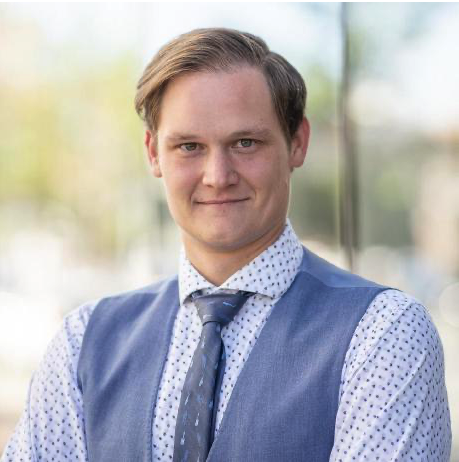
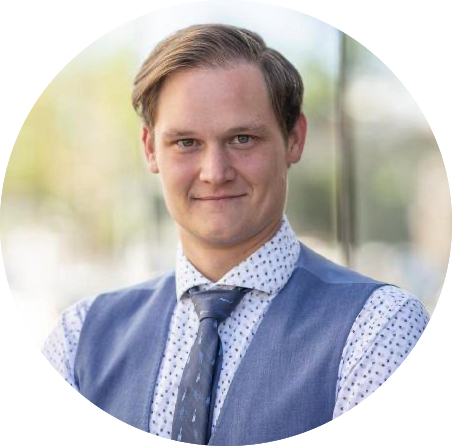
rounded images on team interns

diff --git a/app/about/page.js b/app/about/page.js
@@ -22,12 +22,12 @@ function AboutPage() {
     photo: '/gaspar.png'
   },
   {
-    name: 'Nate M',
+    name: 'Nathan M',
     position: 'Software Developer',
     photo: '/nathan.png'
   },
   {
-    name: 'Steve G',
+    name: 'Steven G',
     position: 'Software Developer',
     photo: '/steven.png'
   },
@@ -37,7 +37,7 @@ function AboutPage() {
     photo: '/jiena.png'
   },
   {
-    name: 'Alex S',
+    name: 'Alexander S',
     position: 'Software Developer',
     photo: '/alex.png'
 }]
@@ -63,6 +63,7 @@ function AboutPage() {
             Luxury cleaning, everyday prices
           </h2>
         </div>
+
         <div className="bg-blue-100 flex flex-col text-center mx-auto max-w-[1260px] items-center justify-center pt-20 pb-20">
           <h1 className="text-5xl sm:text-8x1 font-bold text-black tracking-tight mb-8">
             Who We Are
@@ -75,6 +76,28 @@ function AboutPage() {
             cleanliness
           </em>
         </div>
+
+        {/* place team info here */}
+        <div className="w-4/5">
+          <h2 className="text-5xl sm:text-8x1 font-bold text-white tracking-tight mb-20 pt-20 text-center">Meet the Minds Behind Our Mission</h2>
+          <div className="flex justify-around w-4/5 m-auto">
+            {team.map(function(member, index) {
+              if (index < 2) {
+                return <InfoCard key={index} member={member} image={member.photo} avatarW={200} avatarH={200} />}
+            })}
+          </div>
+          <h3 className="text-4xl sm:text-8x1 font-bold text-white tracking-tight mb-4 pt-20 text-center">Coding Champions</h3>
+          <p className="italic text-2xl text-center">&quot;The faces behind the code - our intern contributors&quot; </p>
+          <div className="flex p-10 justify-around m-auto">
+            {team.map(function(member, index) {
+              if (index > 1) {
+                return <InfoCard key={index} member={member} image={member.photo} avatarW={100} avatarH={100}/>}
+            })}
+          </div>
+        </div>
+        {/* place team info here */}
+
+
         <div className="flex flex-row text-center mx-auto max-w-[1260px] items-center justify-center pt-20">
           <div className="flex flex-col text-center max-w-[500px]">
             <h1 className="text-5xl sm:text-8x1 font-bold text-white tracking-tight mb-8 ">
@@ -101,23 +124,6 @@ function AboutPage() {
               className="absolute top-1/2 left-1/2 transform -translate-x-1/2 -translate-y-1/2 z-10"
               width={600} height={100}
             />
-          </div>
-        </div>
-        <div className="w-4/5">
-          <h2 className="text-5xl sm:text-8x1 font-bold text-white tracking-tight mb-20 pt-20 text-center">Meet the Minds Behind Our Mission</h2>
-          <div className="flex justify-around w-4/5 m-auto">
-            {team.map(function(member, index) {
-              if (index < 2) {
-                return <InfoCard key={index} member={member} image={member.photo} avatarW={200} avatarH={200} />}
-            })}
-          </div>
-          <h3 className="text-4xl sm:text-8x1 font-bold text-white tracking-tight mb-4 pt-20 text-center">Coding Champions</h3>
-          <p className="italic text-2xl text-center">&quot;The faces behind the code - our intern contributors&quot; </p>
-          <div className="flex p-10 justify-around m-auto">
-            {team.map(function(member, index) {
-              if (index > 1) {
-                return <InfoCard key={index} member={member} image={member.photo} avatarW={100} avatarH={100}/>}
-            })}
           </div>
         </div>
       </div>

diff --git a/components/InfoCard.jsx b/components/InfoCard.jsx
@@ -12,8 +12,8 @@ function InfoCard({member, image, avatarW, avatarH }) {
                 height={avatarH}
                 className='mb-3'
             />
-            <p className='text-xl'>{member.name}</p>
-            <p className='italic'>{member.position}</p>
+            <p className='text-xl text-white'>{member.name}</p>
+            <p className='italic text-white'>{member.position}</p>
         </div>
     )
 }
